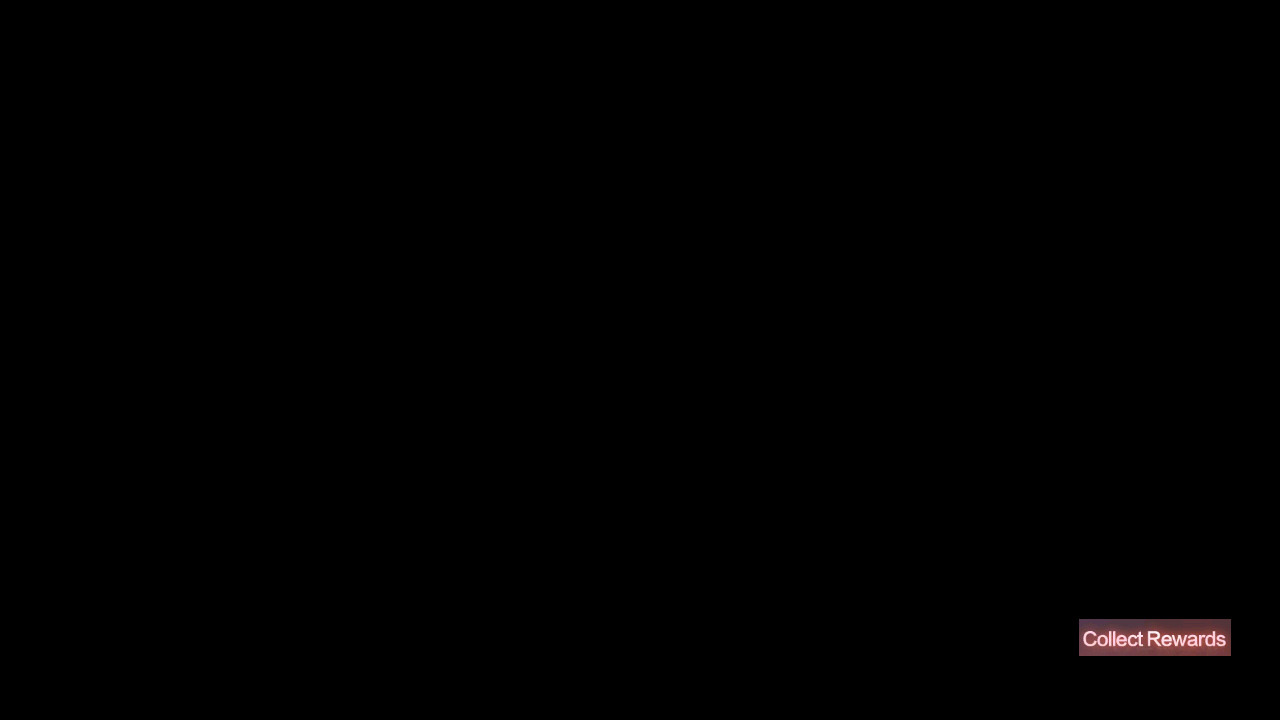
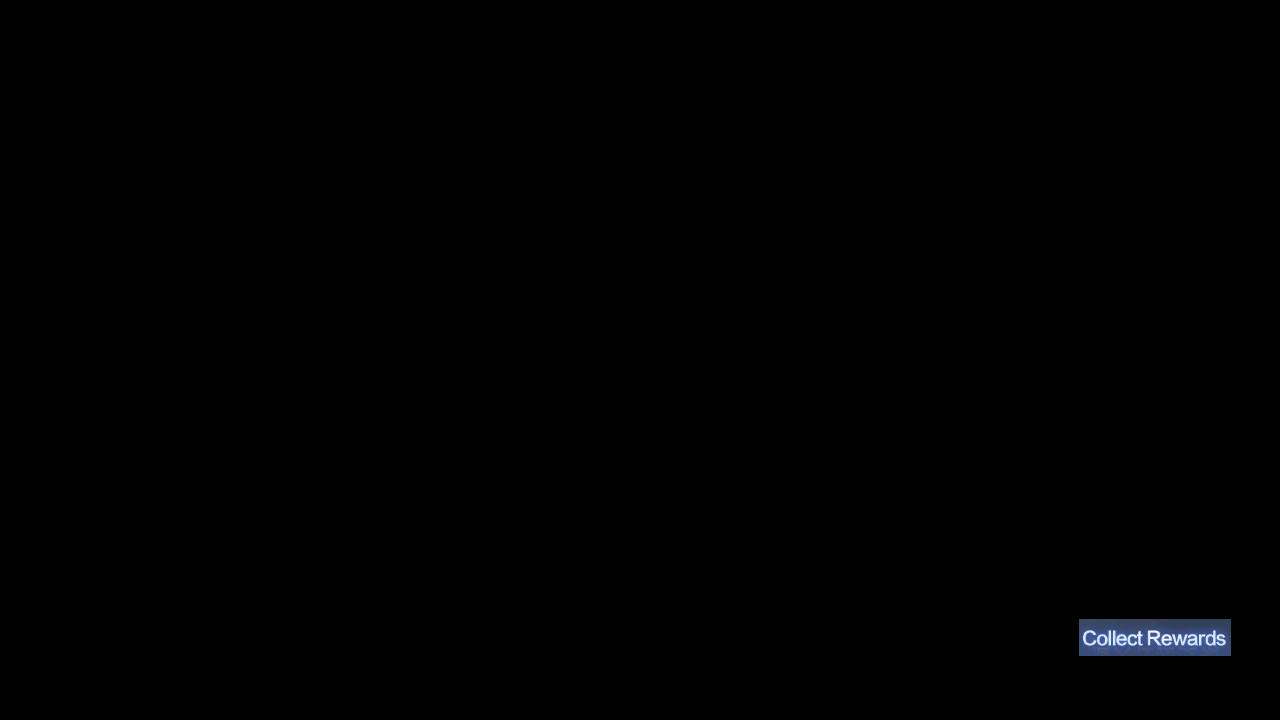
Fix: GUILD_SUPPLY_REWARDS_AZUR asset

Changed region(s): [[0.8438, 0.8556, 0.9688, 0.9167]]

diff --git a/module/reward/assets.py b/module/reward/assets.py
@@ -34,7 +34,7 @@ GUILD_MISSION_REWARDS_AXIS = Button(area={'cn': (1071, 282, 1221, 317), 'en': (1
 GUILD_MISSION_REWARDS_AZUR = Button(area={'cn': (1071, 282, 1221, 317), 'en': (1071, 282, 1221, 317), 'jp': (1071, 282, 1221, 317), 'tw': (1071, 282, 1221, 317)}, color={'cn': (111, 128, 175), 'en': (111, 128, 175), 'jp': (111, 128, 175), 'tw': (111, 128, 175)}, button={'cn': (1071, 282, 1221, 317), 'en': (1071, 282, 1221, 317), 'jp': (1071, 282, 1221, 317), 'tw': (1071, 282, 1221, 317)}, file={'cn': './assets/cn/reward/GUILD_MISSION_REWARDS_AZUR.png', 'en': './assets/cn/reward/GUILD_MISSION_REWARDS_AZUR.png', 'jp': './assets/cn/reward/GUILD_MISSION_REWARDS_AZUR.png', 'tw': './assets/cn/reward/GUILD_MISSION_REWARDS_AZUR.png'})
 GUILD_RED_DOT = Button(area={'cn': (1250, 665, 1273, 688), 'en': (1250, 665, 1273, 688), 'jp': (1250, 665, 1273, 688), 'tw': (1250, 665, 1273, 688)}, color={'cn': (134, 86, 88), 'en': (134, 86, 88), 'jp': (134, 86, 88), 'tw': (134, 86, 88)}, button={'cn': (1250, 665, 1273, 688), 'en': (1250, 665, 1273, 688), 'jp': (1250, 665, 1273, 688), 'tw': (1250, 665, 1273, 688)}, file={'cn': './assets/cn/reward/GUILD_RED_DOT.png', 'en': './assets/cn/reward/GUILD_RED_DOT.png', 'jp': './assets/cn/reward/GUILD_RED_DOT.png', 'tw': './assets/cn/reward/GUILD_RED_DOT.png'})
 GUILD_SUPPLY_REWARDS_AXIS = Button(area={'cn': (1079, 619, 1231, 656), 'en': (1079, 619, 1231, 656), 'jp': (1079, 619, 1231, 656), 'tw': (1079, 619, 1231, 656)}, color={'cn': (137, 87, 91), 'en': (137, 87, 91), 'jp': (137, 87, 91), 'tw': (137, 87, 91)}, button={'cn': (1079, 619, 1231, 656), 'en': (1079, 619, 1231, 656), 'jp': (1079, 619, 1231, 656), 'tw': (1079, 619, 1231, 656)}, file={'cn': './assets/cn/reward/GUILD_SUPPLY_REWARDS_AXIS.png', 'en': './assets/cn/reward/GUILD_SUPPLY_REWARDS_AXIS.png', 'jp': './assets/cn/reward/GUILD_SUPPLY_REWARDS_AXIS.png', 'tw': './assets/cn/reward/GUILD_SUPPLY_REWARDS_AXIS.png'})
-GUILD_SUPPLY_REWARDS_AZUR = Button(area={'cn': (1079, 619, 1231, 656), 'en': (1079, 619, 1231, 656), 'jp': (1079, 619, 1231, 656), 'tw': (1079, 619, 1231, 656)}, color={'cn': (137, 87, 91), 'en': (137, 87, 91), 'jp': (137, 87, 91), 'tw': (137, 87, 91)}, button={'cn': (1079, 619, 1231, 656), 'en': (1079, 619, 1231, 656), 'jp': (1079, 619, 1231, 656), 'tw': (1079, 619, 1231, 656)}, file={'cn': './assets/cn/reward/GUILD_SUPPLY_REWARDS_AZUR.png', 'en': './assets/cn/reward/GUILD_SUPPLY_REWARDS_AZUR.png', 'jp': './assets/cn/reward/GUILD_SUPPLY_REWARDS_AZUR.png', 'tw': './assets/cn/reward/GUILD_SUPPLY_REWARDS_AZUR.png'})
+GUILD_SUPPLY_REWARDS_AZUR = Button(area={'cn': (1079, 619, 1231, 656), 'en': (1079, 619, 1231, 656), 'jp': (1079, 619, 1231, 656), 'tw': (1079, 619, 1231, 656)}, color={'cn': (83, 102, 143), 'en': (83, 102, 143), 'jp': (83, 102, 143), 'tw': (83, 102, 143)}, button={'cn': (1079, 619, 1231, 656), 'en': (1079, 619, 1231, 656), 'jp': (1079, 619, 1231, 656), 'tw': (1079, 619, 1231, 656)}, file={'cn': './assets/cn/reward/GUILD_SUPPLY_REWARDS_AZUR.png', 'en': './assets/cn/reward/GUILD_SUPPLY_REWARDS_AZUR.png', 'jp': './assets/cn/reward/GUILD_SUPPLY_REWARDS_AZUR.png', 'tw': './assets/cn/reward/GUILD_SUPPLY_REWARDS_AZUR.png'})
 MEOWFFICER_BUY = Button(area={'cn': (864, 461, 957, 493), 'en': (864, 460, 957, 492), 'jp': (863, 460, 957, 494), 'tw': (864, 461, 957, 493)}, color={'cn': (241, 217, 105), 'en': (231, 207, 105), 'jp': (241, 216, 107), 'tw': (241, 217, 105)}, button={'cn': (864, 461, 957, 493), 'en': (864, 460, 957, 492), 'jp': (863, 460, 957, 494), 'tw': (864, 461, 957, 493)}, file={'cn': './assets/cn/reward/MEOWFFICER_BUY.png', 'en': './assets/en/reward/MEOWFFICER_BUY.png', 'jp': './assets/jp/reward/MEOWFFICER_BUY.png', 'tw': './assets/tw/reward/MEOWFFICER_BUY.png'})
 MEOWFFICER_BUY_ENTER = Button(area={'cn': (998, 621, 1051, 661), 'en': (998, 621, 1051, 661), 'jp': (994, 624, 1073, 666), 'tw': (998, 621, 1051, 661)}, color={'cn': (196, 157, 131), 'en': (196, 157, 131), 'jp': (183, 164, 139), 'tw': (196, 157, 131)}, button={'cn': (998, 621, 1051, 661), 'en': (998, 621, 1051, 661), 'jp': (994, 624, 1073, 666), 'tw': (998, 621, 1051, 661)}, file={'cn': './assets/cn/reward/MEOWFFICER_BUY_ENTER.png', 'en': './assets/en/reward/MEOWFFICER_BUY_ENTER.png', 'jp': './assets/jp/reward/MEOWFFICER_BUY_ENTER.png', 'tw': './assets/tw/reward/MEOWFFICER_BUY_ENTER.png'})
 MEOWFFICER_BUY_NEXT = Button(area={'cn': (937, 281, 961, 302), 'en': (937, 281, 961, 302), 'jp': (932, 280, 958, 304), 'tw': (937, 281, 961, 302)}, color={'cn': (246, 220, 140), 'en': (246, 220, 140), 'jp': (254, 226, 139), 'tw': (246, 220, 140)}, button={'cn': (937, 281, 961, 302), 'en': (937, 281, 961, 302), 'jp': (932, 280, 958, 304), 'tw': (937, 281, 961, 302)}, file={'cn': './assets/cn/reward/MEOWFFICER_BUY_NEXT.png', 'en': './assets/en/reward/MEOWFFICER_BUY_NEXT.png', 'jp': './assets/jp/reward/MEOWFFICER_BUY_NEXT.png', 'tw': './assets/tw/reward/MEOWFFICER_BUY_NEXT.png'})
